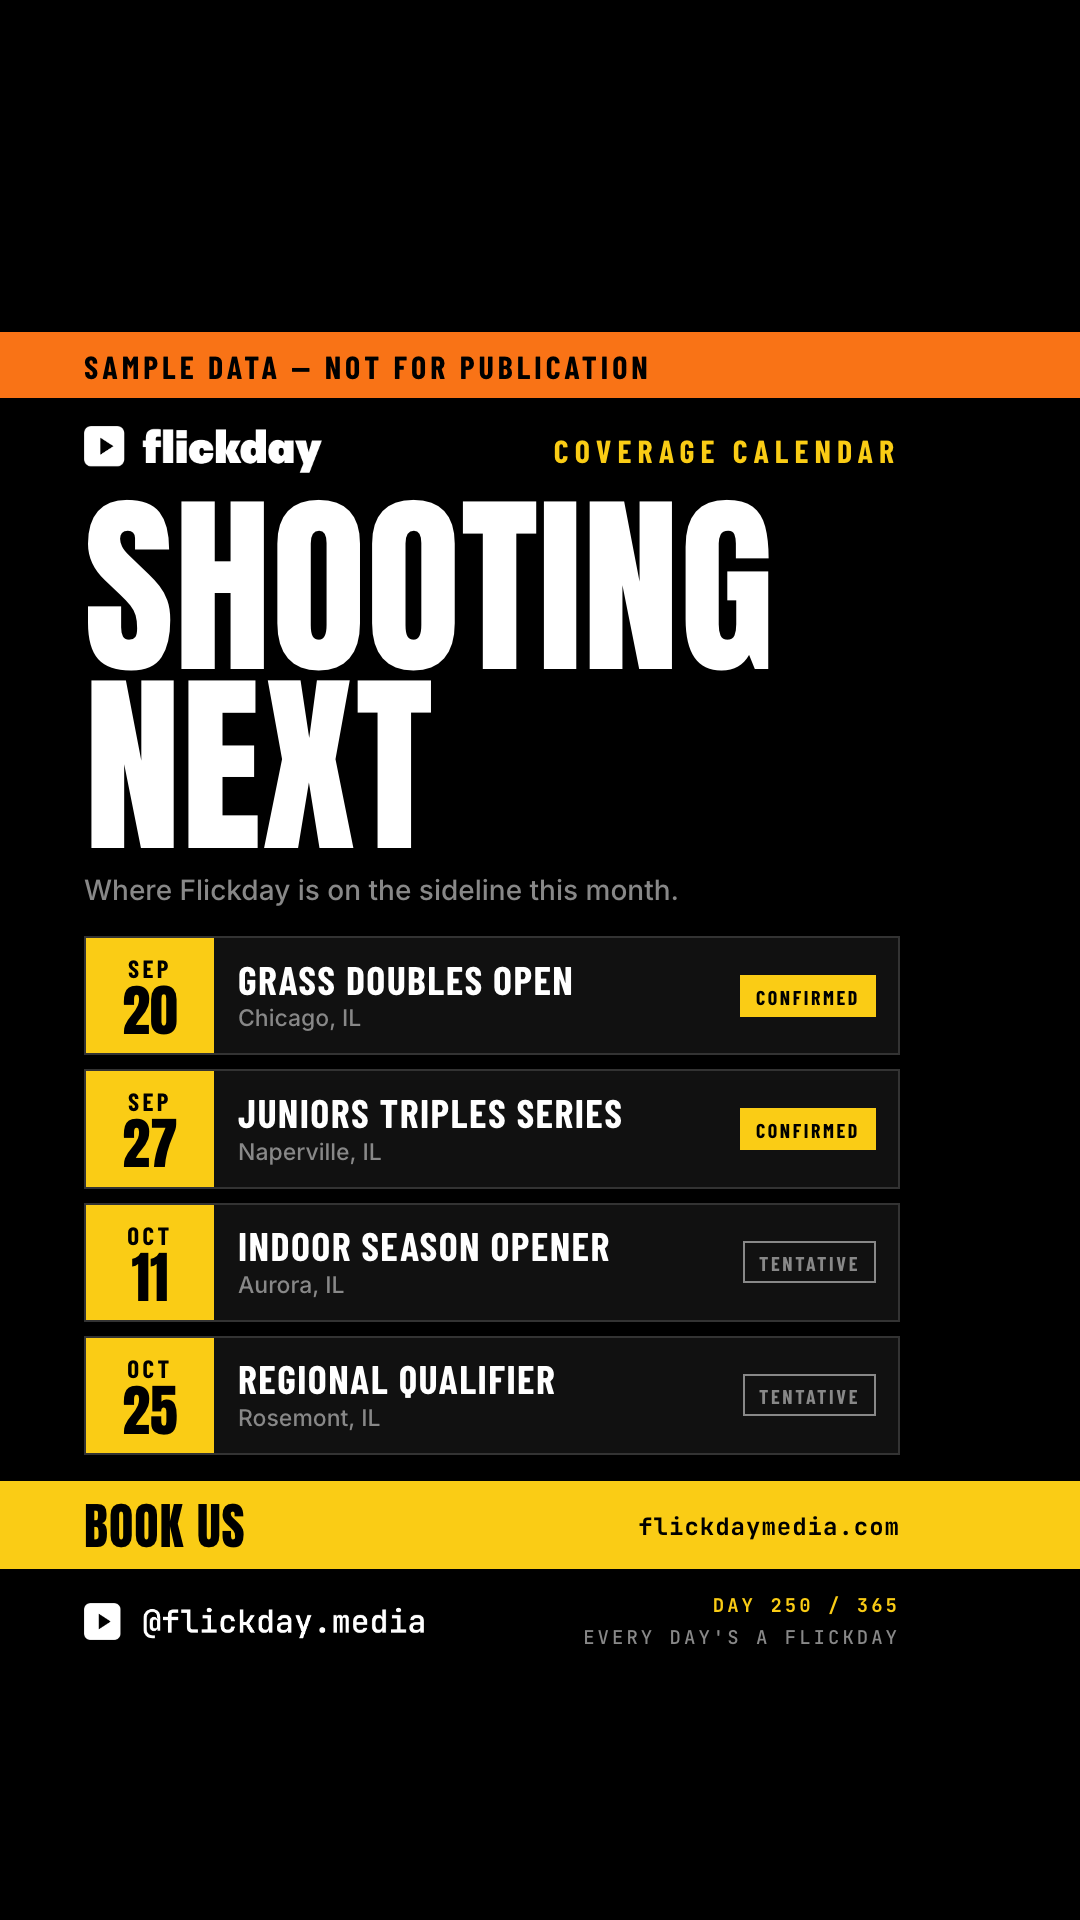
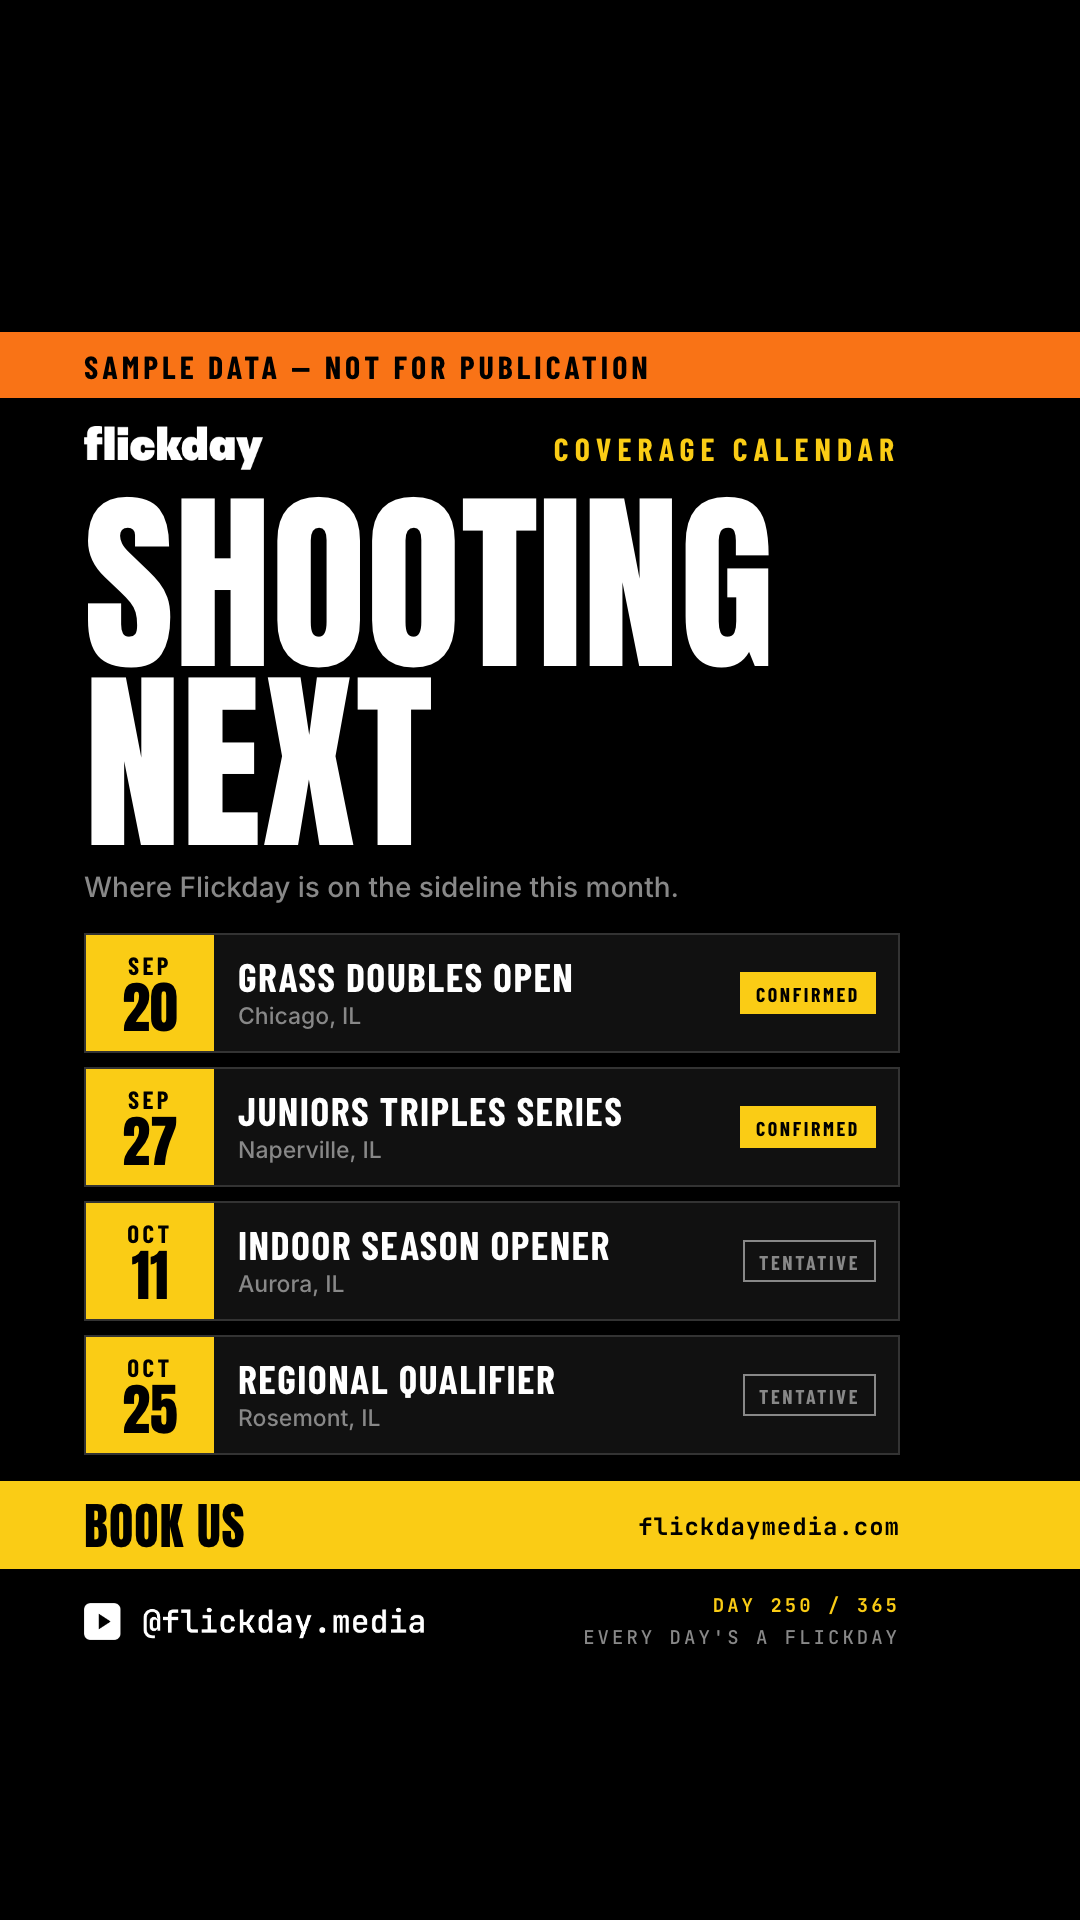
feat(social): wordmark-only bugs, overlays and templates
Nino ruled (2026-10-12) that the play chip does not sit beside the
wordmark while the symbol and lockup gates are open; the wordmark sting
already followed that rule and the social kit did not.

- social-kit.mjs: no chip-plus-wordmark lockup. The overlays carry the
  wordmark alone; the bug-lockup-{white,yellow,ink} PNGs are deleted and
  the proof sheet shows the three wordmark bugs instead. The handle badges
  keep the chip: they carry the handle, not the wordmark.
- The four templates take bug-wordmark-white.png at 179 px, the size the
  wordmark had inside the old 238 px lockup, so the mark itself does not
  change size. All eight template PNGs re-rendered with ./render.sh.
- booking-push renders with its SAMPLE DATA bar for now: its data ships
  facts_confirmed: false until nino has seen the copy fix from b3133e4.
- Only overlay and proof were re-run in the kit, so the bug-wordmark,
  badge and avatar PNGs keep their committed bytes.

diff --git a/flickday-assets/social/templates/booking-push.html b/flickday-assets/social/templates/booking-push.html
@@ -47,9 +47,9 @@
              margin-bottom:28px;}
       .rail{flex:0 0 auto;display:flex;align-items:center;justify-content:space-between;gap:24px;}
       .rail img.mark{height:auto;display:block;}
-      /* SOCIAL.md: the shipped bugs are rendered at 3x their intended display size, so a
-         714px lockup is built to sit near 238px on a 1080 canvas. Do not shrink for story. */
-      .lockup{width:238px;}
+      /* SOCIAL.md: the shipped bugs are rendered at 3x their intended display size, so the
+         538px wordmark bug is built to sit near 179px on a 1080 canvas. Do not shrink for story. */
+      .wordmark{width:179px;}
       .handle{width:340px;}
       .tagline{font-family:var(--font-label);font-weight:500;font-size:19px;letter-spacing:3px;
                color:var(--gray-light);text-transform:uppercase;white-space:nowrap;}
@@ -89,7 +89,7 @@
 
       var html = '';
       if (!D.facts_confirmed) html += '<p class="alert">' + D.unconfirmed_label + '</p>';
-      html += '<div class="rail pad"><img class="mark lockup" src="../bug-lockup-white.png" alt="Flickday">' +
+      html += '<div class="rail pad"><img class="mark wordmark" src="../bug-wordmark-white.png" alt="Flickday">' +
               '<span class="eyebrow">' + D.eyebrow + '</span></div>';
       html += '<div class="stack pad" id="stack"></div>';
       html += '<div class="facts pad">' + D.rows.map(function (r) {

diff --git a/flickday-assets/social/templates/coverage-schedule.html b/flickday-assets/social/templates/coverage-schedule.html
@@ -42,7 +42,7 @@
              margin-bottom:28px;}
       .rail{flex:0 0 auto;display:flex;align-items:center;justify-content:space-between;gap:24px;}
       .rail img.mark{height:auto;display:block;}
-      .lockup{width:238px;}
+      .wordmark{width:179px;}
       .handle{width:340px;}
       .tagline{font-family:var(--font-label);font-weight:500;font-size:19px;letter-spacing:3px;
                color:var(--gray-light);text-transform:uppercase;white-space:nowrap;}
@@ -103,7 +103,7 @@
       var LH = 0.92;
       var html = '';
       if (!D.facts_confirmed) html += '<p class="alert">' + D.unconfirmed_label + '</p>';
-      html += '<div class="rail pad"><img class="mark lockup" src="../bug-lockup-white.png" alt="Flickday">' +
+      html += '<div class="rail pad"><img class="mark wordmark" src="../bug-wordmark-white.png" alt="Flickday">' +
               '<span class="eyebrow">' + D.eyebrow + '</span></div>';
       html += '<div class="head pad" id="head"></div><p class="sub pad">' + D.subtitle + '</p>';
       html += '<div class="rows pad">' + D.rows.map(function (r) {

diff --git a/flickday-assets/social/templates/partner-thanks.html b/flickday-assets/social/templates/partner-thanks.html
@@ -42,7 +42,7 @@
              margin-bottom:28px;}
       .rail{flex:0 0 auto;display:flex;align-items:center;justify-content:space-between;gap:24px;}
       .rail img.mark{height:auto;display:block;}
-      .lockup{width:238px;}
+      .wordmark{width:179px;}
       .handle{width:340px;}
       .tagline{font-family:var(--font-label);font-weight:500;font-size:19px;letter-spacing:3px;
                color:var(--gray-light);text-transform:uppercase;white-space:nowrap;}
@@ -81,7 +81,7 @@
 
       var html = '';
       if (!D.facts_confirmed) html += '<p class="alert">' + D.unconfirmed_label + '</p>';
-      html += '<div class="rail pad"><img class="mark lockup" src="../bug-lockup-white.png" alt="Flickday">' +
+      html += '<div class="rail pad"><img class="mark wordmark" src="../bug-wordmark-white.png" alt="Flickday">' +
               '<span class="eyebrow">' + D.eyebrow + '</span></div>';
       html += '<div class="head pad" id="head"></div>';
       var gridRows = Math.ceil(D.tiles.length / 2);

diff --git a/flickday-assets/social/templates/drop-notice.html b/flickday-assets/social/templates/drop-notice.html
@@ -42,7 +42,7 @@
              margin-bottom:28px;}
       .rail{flex:0 0 auto;display:flex;align-items:center;justify-content:space-between;gap:24px;}
       .rail img.mark{height:auto;display:block;}
-      .lockup{width:238px;}
+      .wordmark{width:179px;}
       .handle{width:340px;}
       .tagline{font-family:var(--font-label);font-weight:500;font-size:19px;letter-spacing:3px;
                color:var(--gray-light);text-transform:uppercase;white-space:nowrap;}
@@ -91,7 +91,7 @@
 
       var html = '';
       if (!D.facts_confirmed) html += '<p class="alert">' + D.unconfirmed_label + '</p>';
-      html += '<div class="rail pad"><img class="mark lockup" src="../bug-lockup-white.png" alt="Flickday">' +
+      html += '<div class="rail pad"><img class="mark wordmark" src="../bug-wordmark-white.png" alt="Flickday">' +
               '<span class="chip">' + D.chip + '</span></div>';
       html += '<div class="hero" id="hero"></div>';
       html += '<p class="reason pad">' + D.reason + '</p>';

diff --git a/flickday-assets/social/templates/README.md b/flickday-assets/social/templates/README.md
@@ -110,10 +110,11 @@ drifted.
   `--yellow-bright #fde047`, `--gray-dark #111`, `--gray-mid #333`, `--gray-light #888`.
 - **Type** — the same `:root`: Anton display, Inter body, Barlow Condensed 700 tags, JetBrains
   Mono labels. Loaded from the same Google Fonts URL `index.html` uses.
-- **Marks** — the shipped PNGs one directory up: `bug-lockup-white.png` and
-  `handle-flat-white.png`. The wordmark is never re-set in another face. `SOCIAL.md` notes those
-  files render at 3× their intended display size, so the lockup sits at 238px and the handle at
-  340px on a 1080 canvas, at both sizes.
+- **Marks** — the shipped PNGs one directory up: `bug-wordmark-white.png` and
+  `handle-flat-white.png`. The wordmark is never re-set in another face, and it carries no play
+  chip beside it while the lockup is open (2026-10-12). `SOCIAL.md` notes those files render at 3×
+  their intended display size, so the wordmark sits at 179px and the handle at 340px on a 1080
+  canvas, at both sizes.
 - **Safe areas** — read off `motion/flickday-overlay-kit/compositions/*.html`, the only geometry
   in this repo validated against real posts: story keeps 300px clear at the top, 270px at the
   bottom and 84px at the left, with 180px at the right for the action rail. Feed uses 64px all

diff --git a/flickday-assets/social/SOCIAL.md b/flickday-assets/social/SOCIAL.md
@@ -75,7 +75,6 @@ shadows print as a muddy underbase on DTF.
 | File | Size | Notes |
 |---|---|---|
 | `bug-wordmark-{white,yellow,ink}` | 538×132 | wordmark alone, cropped to ink |
-| `bug-lockup-{white,yellow,ink}` | 714×141 | play chip + wordmark |
 | `handle-pill-{dark,yellow}` | 1294×248 | filled pill, drops on any ground |
 | `handle-flat-{white,yellow}` | 1117×120 | no pill, for burn-in over video |
 | `avatar-{yellow-on-black,black-on-yellow}` | 1024² | mark spans 74% of the frame |
